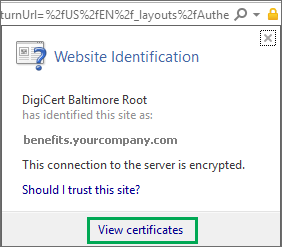
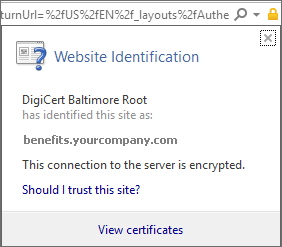
corrected highlight in screenshots per new guidance from doug

Changed region(s): [[0.2837, 0.8785, 0.7092, 0.9919]]

diff --git a/InTuneDocs/EndUser/what-happens-if-you-install-the-company-portal-app-and-enroll-your-device-in-intune-windows.md b/InTuneDocs/EndUser/what-happens-if-you-install-the-company-portal-app-and-enroll-your-device-in-intune-windows.md
@@ -6,7 +6,7 @@ description:
 keywords:
 author: Staciebarker
 manager: jeffgilb
-ms.date: 04/28/2016
+ms.date: 7/8/2016
 ms.topic: article
 ms.prod:
 ms.service: microsoft-intune
@@ -28,102 +28,64 @@ ms.suite: ems
 
 # What happens if you install the Company Portal app and enroll your device in Intune?
 
-To learn what happens when you install the Company Portal app and enroll your device, use the link, shown in the "In this Article" section above, that matches the device you are using. For information about Windows 10 devices, see [this page](what-happens-if-you-install-the-company-portal-app-and-enroll-your-device-in-intune-windows10.md).
+When you install the Company Portal app and then use it to enroll a Windows or Windows Phone device, you are enabling your IT administrator to manage your device to keep company or school data secure, as described below for devices earlier than Windows 10. For information about Windows 10 devices, see [this page](what-happens-if-you-install-the-company-portal-app-and-enroll-your-device-in-intune-windows10.md).
 
-## Windows 8.1 and Windows RT
-When you install the Company Portal app and then use the app to enroll your Windows 8.1 Enterprise  or Professional or Windows RT device in Intune, you can then use the Company Portal app to:
-
--   Access the company’s network, and your email and work files
-
--   Get company apps from the Company Portal
-
--   Automatically configure your company email account
-
--   Reset your phone to factory settings if it is lost or stolen
-
-For the steps to enroll, see [Enroll your Windows device in Intune](enroll-your-device-in-intune-windows.md). To learn about what your IT admin can see on your device, see [What can my IT admin see when I enroll my device in Intune?](what-can-your-it-administrator-see-when-you-enroll-your-device-in-intune-windows.md).
-
-When you add a computer:
-
--   Software will be installed on your computer to enable your IT administrator to manage the computer, and enable you to get to company resources like apps and support information. Your IT administrator may automatically update this software.
-
--   Intune Endpoint Protection may be installed on your computer. This is software that checks for viruses and malware.
-
--   Your IT administrator can take an inventory of all of the software installed on the computer, including software you have personally installed.
-
--   You may be required to accept terms and conditions.
-
--   Your IT administrator can collect or delete data from your computer’s hard drive. Your IT administrator could also delete the entire hard drive.
-
--   Your IT administrator can install apps and updates on your computer.
-
--   Your IT administrator may enforce policies on the computer. For example, you might be required to set a password or PIN on the computer, which may lock you out of the computer, or delete all data from your computer’s hard drive, if there are too many incorrect password attempts.
-
-## Windows Phone 8.1 and Windows Phone 8
-When you install the Company Portal app and then use the app to enroll your Windows Phone 8.1 or Windows Phone 8 device in Intune, you can then use the Company Portal app to:
+## What happens to all Windows devices after enrollment
+When you enroll your Windows or Windows Phone device in Intune, you can:
 
 -   Access the company’s network, and your email and work files
 
--   Get company apps from the Company Portal
+-   Get company apps from the Company Portal website (for Windows 7 and Vista, you can get company apps from the Company Portal website only)
 
--   Automatically configure your company email account
+-   Automatically configure your company or school email account
 
 -   Reset your phone to factory settings if it is lost or stolen
 
-For the steps to enroll, see [Enroll your Windows device in Intune](enroll-your-device-in-intune-windows.md). To learn about what your IT admin can see on your device, see [What can my IT admin see when I enroll my device in Intune?](what-can-your-it-administrator-see-when-you-enroll-your-device-in-intune-windows.md).
-
-When you add your Windows Phone device, you are giving your IT administrator permission to access the device. They can do things like:
+When you enroll your device, you are giving your IT administrator permission to do things like:
 
 -   Reset your device back to manufacturer’s default settings. This is helpful if the device is lost or stolen.
 
--   Remove all company related data and business apps that were installed. Your personal data and settings aren’t removed.
-
--   Force you to have a password or PIN on the device, which may lock you out of the device, or reset your device back to manufacturer’s default settings, which may include the deletion of data, if there are too many incorrect password attempts.
-
--   Force all the data on the device to be encrypted. This helps protect the data if the device is lost or stolen.
-
--   Require you to accept terms and conditions.
-
--   Disable the SD card.
-
--   Install updates to apps on your device. This applies to updates only. Your IT administrator cannot force new apps to install on your device, but you can choose to install apps you see in the company portal.
-
--   After your device is added to the company portal, approximately every 8 hours it will:
-
-    -   Download any policy or app updates that your IT administrator has made available.
-
-    -   Send any hardware inventory updates.
-
-    -   Send any company app inventory updates.
-
-## Windows 7 and Vista
-When you install the Company Portal app and then use the app to enroll your Windows 7 or Vista device in Intune, you can then use the Company Portal app to:
-
--   Access the company’s network, and your email and work files
-
--   Get company apps from the Company Portal
-
--   Automatically configure your company email account
-
--   Reset your phone to factory settings if it is lost or stolen
-
-To learn about what your IT admin can see on your device, see [What can my IT admin see when I enroll my device in Intune?](what-can-your-it-administrator-see-when-you-enroll-your-device-in-intune-windows.md).
-
-When you add a computer:
-
--   Software will be installed on your computer to enable your IT administrator to manage the computer, and enable you to get to company resources like apps and support information. Your IT administrator may automatically update this software.
-
--   Intune Endpoint Protection may be installed on your computer. This is software that checks for viruses and malware.
+-   Remove all company-related data and business apps that were installed. Your personal data and settings aren’t removed.
 
 -   Your IT administrator can take an inventory of all of the software installed on the computer, including software you have personally installed.
 
--   You may be required to accept terms and conditions.
+-   Force you to have a password or PIN on the device, which may lock you out of the device, or reset your device back to manufacturer’s default settings, which may include the deletion of data if there are too many incorrect password attempts.
 
--   Your IT administrator can collect or delete data from your computer’s hard drive. Your IT administrator could also delete the entire hard drive.
+-   Force all the data on the device to be encrypted, which helps protect the data if the device is lost or stolen.
 
--   Your IT administrator can install apps and updates on your computer.
+-   Require you to accept terms and conditions.
 
 -   Your IT administrator may enforce policies on the computer. For example, you might be required to set a password or PIN on the computer, which may lock you out of the computer, or delete all data from your computer’s hard drive, if there are too many incorrect password attempts.
+
+-   Disable the SD card.
+
+## What happens to all Windows PCs after enrollment
+
+-  Software will be installed on your computer to enable your IT administrator to manage the computer, and enable you to get to company resources like apps and support information. Your IT administrator may automatically update this software.
+
+-  Intune Endpoint Protection may be installed on your computer. This is software that checks for viruses and malware.
+
+-  Your IT administrator can take an inventory of all of the software installed on the computer, including software you have personally installed.
+
+-  You may be required to accept terms and conditions.
+
+-  Your IT administrator can collect or delete data from your computer’s hard drive. Your IT administrator can also delete the entire hard drive.
+
+-  Your IT administrator can install apps and updates on your computer.
+
+-  Your IT administrator may enforce policies on the computer. For example, you might be required to set a password or PIN on the computer, which may lock you out of the computer, or delete all data from your computer’s hard drive if there are too many incorrect password attempts.
+
+
+## What happens every eight hours after device enrollment
+Approximately every eight hours, enrolled devices will:
+
+-   Download any policy or app updates that your IT administrator has made available.
+
+-   Send any hardware inventory updates.
+
+-   Send any company app inventory updates.
+
+For the steps to enroll, see [Enroll your Windows device in Intune](enroll-your-device-in-intune-windows.md). To learn about what your IT admin can see on your device, see [What can my IT admin see when I enroll my device in Intune?](what-can-your-it-administrator-see-when-you-enroll-your-device-in-intune-windows.md).
 
 If you have questions, contact your IT administrator. For their contact information, check the [Company Portal website](http://portal.manage.microsoft.com).
 

diff --git a/InTuneDocs/EndUser/your-device-is-missing-a-required-certificate-android.md b/InTuneDocs/EndUser/your-device-is-missing-a-required-certificate-android.md
@@ -79,7 +79,7 @@ To resolve this issue and get the required certificate, there are two main steps
 
 	![screenshot-internet-explorer-view-certificates-button-on-website-identification-dialog](./media/andr-missg-cert-ie-view-cert-button.png)
 
-5. In the **Certificate** dialog, click the **Certification path** tab, and then identify the certificate that you need to get from the Internet. The name of the certificate that you need will be in the same position as the one that is highlighted in the screenshot above.
+5. In the **Certificate** dialog, click the **Certification path** tab, and then identify the certificate that you need to get from the Internet. The name of the certificate that you need will be in the same position as the one that is highlighted in the example screenshot above. 
 
 ### Download and install the missing certificate on your Android mobile device
 
